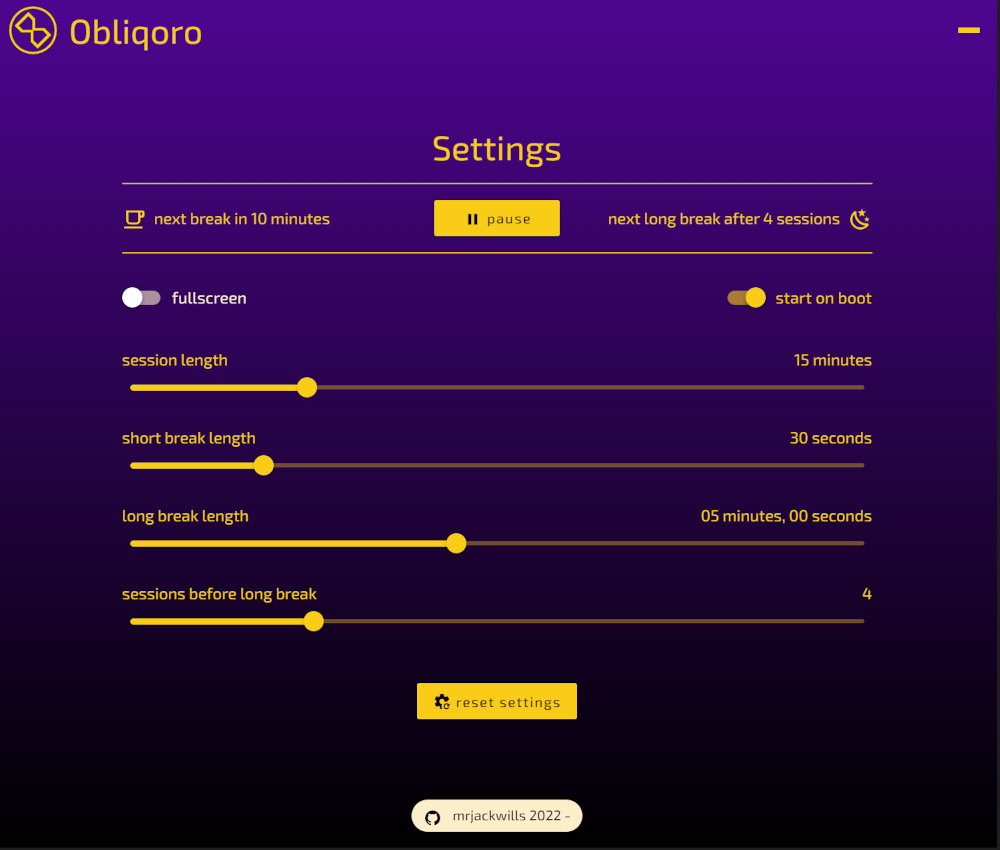
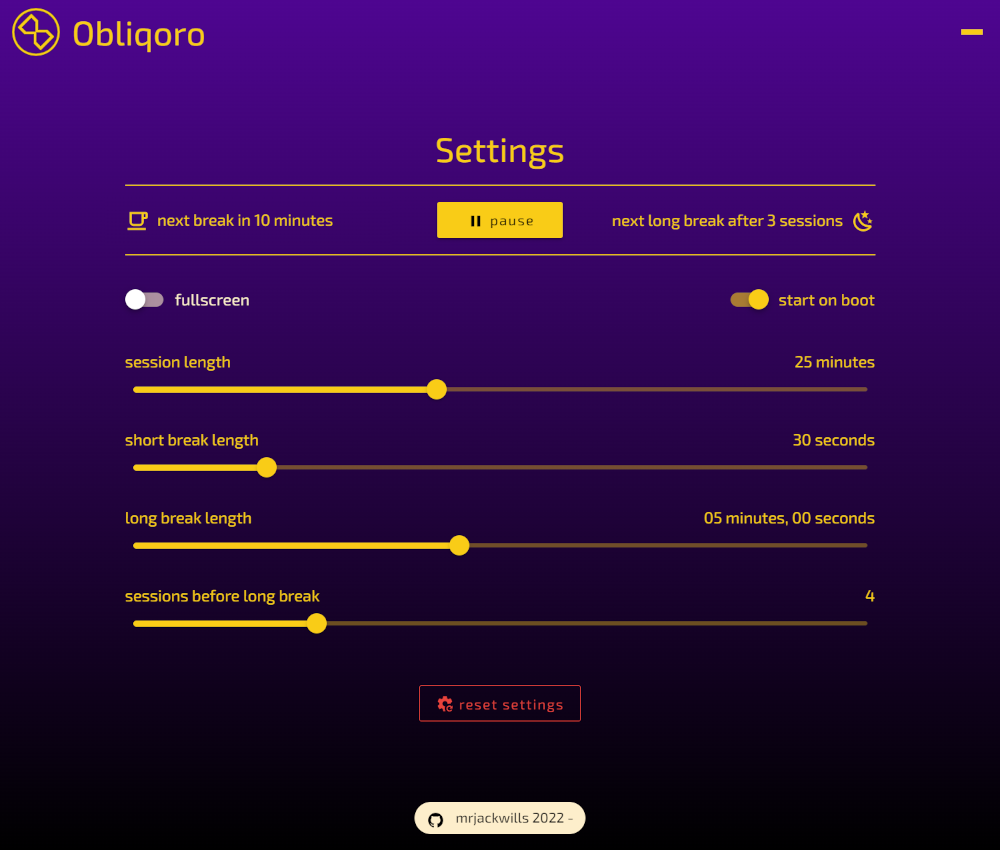
fix: styling tweaks

diff --git a/src/Views/SettingsView.vue b/src/Views/SettingsView.vue
@@ -30,7 +30,7 @@
 					</v-col>
 
 					<v-col cols='2' class='ma-0 pa-0'>
-						<v-btn @click='toggle_pause'  color='primary' block rounded='sm' class='ma-0 pa-0'>
+						<v-btn @click='toggle_pause' color='primary' block rounded='sm' class='ma-0 pa-0' >
 							<v-row align='center' justify='start' class='ma-0 pa-0'>
 								<v-col cols='auto' class='ma-0 pa-0 mr-1'>
 									<v-icon :icon='pauseIcon' class='' />
@@ -102,7 +102,8 @@
 				<!-- RESET BUTTON -->
 				<v-row class='ma-0 pa-0 mt-6' justify='center'>
 					<v-col cols='auto' class='ma-0 pa-0'>
-						<v-btn @click='reset_settings' :disabled='paused' :variant='paused? "outlined" : undefined' color='primary' block rounded='sm'>
+						<!-- :variant='paused? undefined:"outlined"' -->
+						<v-btn @click='reset_settings' :disabled='paused' variant='outlined' color='red' block rounded='sm'>
 							<v-icon :icon='mdiCogRefresh' class='mr-1' />
 							reset settings
 						</v-btn>

diff --git a/src/components/TheFooter.vue b/src/components/TheFooter.vue
@@ -5,7 +5,7 @@
 
 			</v-col>
 
-			<v-col cols='auto' class='no-gutters unselectable ma-0 pa-0'>
+			<v-col cols='auto' class='no-gutters unselectable ma-0 pa-0 cl'>
 
 				<v-chip :ripple='false' color='offwhite' text-color='black' variant='flat' outlined pill>
 					<section v-if='showBuild' class='' @click='buildInfo'>
@@ -34,6 +34,9 @@
 							<v-icon :icon='mdiOpenInNew' color='primary' size='x-small' />
 						</v-col>
 					</v-row>
+					<v-tooltip activator='parent' location='top center' content-class='tooltip'>
+						open database location in file explorer
+					</v-tooltip>
 					
 				</section>
 			</v-col>
